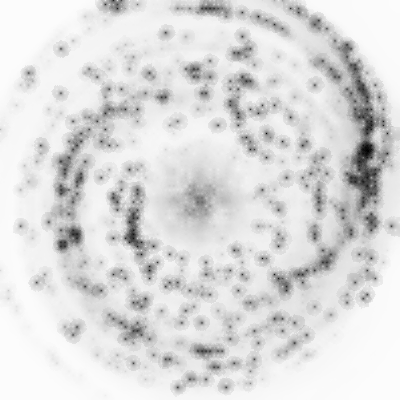
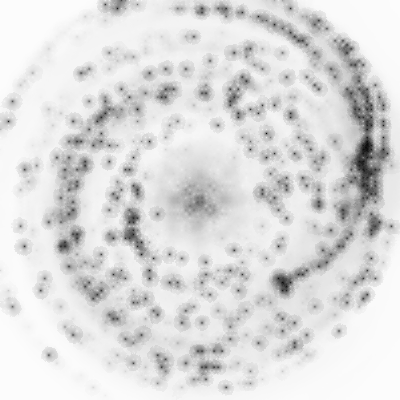
fixed a image creation bug, added more predicted images

diff --git a/knr_test.py b/knr_test.py
@@ -1,0 +1,87 @@
+import csv
+from math import sqrt
+import os
+
+import pandas as pd
+import numpy as np
+
+from PIL import Image
+
+from sklearn.metrics import mean_squared_error
+from sklearn.model_selection import train_test_split
+from sklearn.neighbors import KNeighborsRegressor
+
+
+
+def main(neighbors):
+
+    columns = ['x', 'y', 'm', 'score']
+
+    selected_file = 3
+    render_scale = 4
+
+    renders_path = os.path.join(os.path.abspath(os.getcwd()), 'renders', 'prediction_data')
+
+    data_path = os.path.join(os.path.abspath(os.getcwd()), 'output')
+    filename = os.listdir(data_path)[selected_file]
+    print('reading:' + filename)
+
+    # reading data
+    data = pd.read_csv(os.path.join(data_path, filename), names=columns, delimiter=',', quotechar='|', quoting=csv.QUOTE_MINIMAL)
+
+    # extracting used parameters
+    T = [data['x'].min(), data['x'].max(), data['y'].max(), data['y'].min()]
+    M = data['m'].unique()
+    N = data.shape[0]
+    resolution_per_axis = int(sqrt(N // len(M)) * render_scale)
+
+    # constructing new data with better resolution
+    X = np.linspace(T[0], T[1], resolution_per_axis)
+    Y = np.linspace(T[2], T[3], resolution_per_axis)
+    args = []
+
+    # removing mass from everything if only one is present
+    if len(M) == 1:
+        columns.remove('m')
+        data.drop(columns=['m'], inplace=True)
+        args = [[x, y] for y in Y for x in X]
+    else:
+        args = [[x, y, m] for m in M for y in Y for x in X]
+
+    del X, Y
+
+    # Splitting into training and test data
+    X = data[columns[:-1]].to_numpy()
+    y = data[columns[-1]].to_numpy()
+
+    X_train, X_test, y_train, y_test = train_test_split(X, y, test_size=.33)
+
+    knr = KNeighborsRegressor(n_neighbors=neighbors, weights='distance', n_jobs=-1)
+    knr.fit(X_train, y_train)
+
+    y_pred = knr.predict(X_test)
+    print('Mean squared error: ' + str(mean_squared_error(y_test, y_pred)))
+    print('Score: ' + str(knr.score(X_test, y_test)))
+
+
+
+    pred_data = np.array(knr.predict(args))
+
+    for i, split_pred_data in enumerate([pred_data[i:i + len(pred_data) // len(M)] for i in range(0, len(pred_data), len(pred_data) // len(M))]):
+
+        split_pred_data.resize((resolution_per_axis, resolution_per_axis))
+
+        im = Image.fromarray(np.uint8(np.interp(split_pred_data, [0, 1], [0, 255])))
+
+        splitted_filename = filename[:-4].split('__')
+        new_mass = splitted_filename[2][2:-1].split(', ')[i]
+        new_filename = f'R{render_scale}__{splitted_filename[0]}__{splitted_filename[1]}__M[{new_mass}]__{splitted_filename[3]}.png'
+
+        im.save(os.path.join(renders_path, new_filename))
+
+        print('Exported predicted image to: ' + os.path.join(renders_path, new_filename))
+    
+
+
+# Number of neighbors (tests resulted in 9 having the lowest error)
+main(9)
